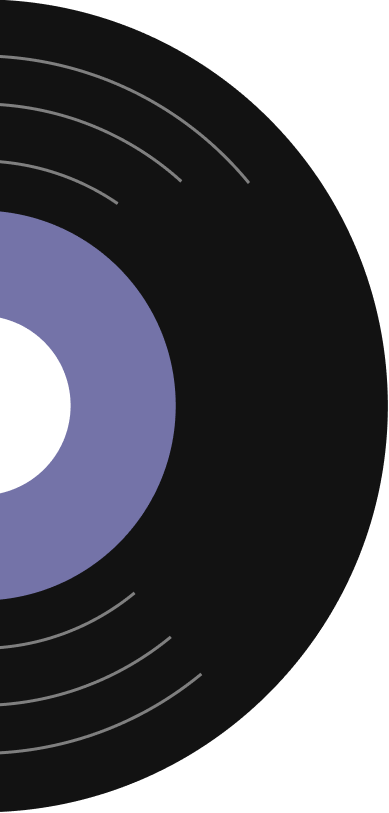
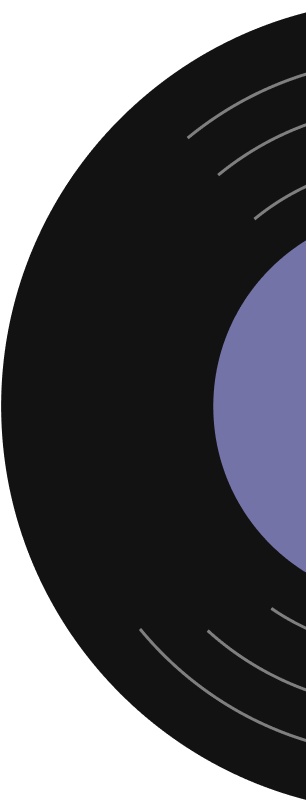
basic layout of learning journal set

diff --git a/journal/index.html b/journal/index.html
@@ -24,29 +24,31 @@
     </div>
    
     <div id="container">
-        <article>
-                <h2>Title</h2>
-                <date>January 28, 2023</date>
+            <article>
+                    <h2>Title</h2>
+                    <date>January 28, 2023</date>
 
-                <div id="content">
-                    <p>Lorem ipsum dolor sit amet consectetur adipisicing elit. Maiores distinctio accusamus magnam reiciendis mollitia odio libero debitis commodi, veniam recusandae harum voluptatem repellat animi enim earum, natus molestiae. Magni, quos!</p>
+                    <div id="content">
+                        <p>Lorem ipsum dolor sit amet consectetur adipisicing elit. Maiores distinctio accusamus magnam reiciendis mollitia odio libero debitis commodi, veniam recusandae harum voluptatem repellat animi enim earum, natus molestiae. Magni, quos!</p>
 
-                    <p>
-                        Lorem, ipsum dolor sit amet consectetur adipisicing elit. Cupiditate, qui accusantium itaque illum minus obcaecati, corporis voluptas fugit neque sequi laboriosam similique voluptates molestias. Officiis facilis neque sapiente ut. Ab?
-                    </p>
-                    <p>
-                        Lorem, ipsum dolor sit amet consectetur adipisicing elit. Cupiditate, qui accusantium itaque illum minus obcaecati, corporis voluptas fugit neque sequi laboriosam similique voluptates molestias. Officiis facilis neque sapiente ut. Ab?
-                    </p>
-                    <p>
-                        Lorem, ipsum dolor sit amet consectetur adipisicing elit. Cupiditate, qui accusantium itaque illum minus obcaecati, corporis voluptas fugit neque sequi laboriosam similique voluptates molestias. Officiis facilis neque sapiente ut. Ab?
-                    </p>
-                    <p>
-                        Lorem, ipsum dolor sit amet consectetur adipisicing elit. Cupiditate, qui accusantium itaque illum minus obcaecati, corporis voluptas fugit neque sequi laboriosam similique voluptates molestias. Officiis facilis neque sapiente ut. Ab?
-                    </p>
-                </div>
-                
-                <div id="vinyl"></div>
-        </article>
+                        <p>
+                            Lorem, ipsum dolor sit amet consectetur adipisicing elit. Cupiditate, qui accusantium itaque illum minus obcaecati, corporis voluptas fugit neque sequi laboriosam similique voluptates molestias. Officiis facilis neque sapiente ut. Ab?
+                        </p>
+                        <p>
+                            Lorem, ipsum dolor sit amet consectetur adipisicing elit. Cupiditate, qui accusantium itaque illum minus obcaecati, corporis voluptas fugit neque sequi laboriosam similique voluptates molestias. Officiis facilis neque sapiente ut. Ab?
+                        </p>
+                        <p>
+                            Lorem, ipsum dolor sit amet consectetur adipisicing elit. Cupiditate, qui accusantium itaque illum minus obcaecati, corporis voluptas fugit neque sequi laboriosam similique voluptates molestias. Officiis facilis neque sapiente ut. Ab?
+                        </p>
+                        <p>
+                            Lorem, ipsum dolor sit amet consectetur adipisicing elit. Cupiditate, qui accusantium itaque illum minus obcaecati, corporis voluptas fugit neque sequi laboriosam similique voluptates molestias. Officiis facilis neque sapiente ut. Ab?
+                        </p>
+                    </div>
+            </article>
+
+        <div id="vinyl">
+            <img src="../images/halfVinyl.png" width="180" height="150" alt="vinyl image">
+        </div>
         <!-- <img src="../images/halfVinyl.png" width="300" height="550" alt=""> -->
     </div>
 

diff --git a/journal/styles.css b/journal/styles.css
@@ -1,13 +1,13 @@
 #container {
     margin: 0 auto;
     display: flex;
+    flex-direction: row-reverse;
     justify-content: center;
     align-items: center;
 }
 
 body {
     line-height: 1.2em;
-
 }
 
 header {
@@ -21,26 +21,24 @@ header h1,h2 {
     font-size: 1em;
 }
 
+
 article {
-    background-color: #E5CA93;
-    /* padding: 30px;
-    width: 43%;
-    height: 43%;
-    margin: auto;
-    position: relative; */
+    background-color: #D4D3F8;
 
+    border-radius: 5px;
     padding: 30px;
-    height: 43%;
-    width: 43%;
-
+    width: 550px;
+    height: 550px;
 }
 
 article h2 {
     font-size: 1.5em;
+    margin: 10px 0px;
 }
 
 article date {
     font-size: 0.8em;
+    margin: 0;
 }
 
 article p {
@@ -55,26 +53,27 @@ article p {
 }
 
 #vinyl {
-    background-image: url(../images/halfVinyl.png);
-    position: absolute;
-    transform-origin: center;
-    top: 50%;
-    left: 40%;
-    z-index: -1;
 
-    width: 550px;
-    height: 550px;
+    /* background-image: url(../images/halfVinyl.png); */
+    /* background-repeat: no-repeat; */
+    /* position: absolute;
+    transform-origin: center;
+    top: 20%;
+    left: 73%; */
+
+    /* width: 550px;
+    height: 550px; */
+    z-index: -1;
 }
 
- img {
-    position: absolute;
-    transform-origin: center;
+img {
+    /* position: absolute; */
+    /* transform-origin: center; */
     
-    top: 10%;
-    left: 40%;
+    /* top: 10%;
+    left: 40%; */
 
-    /* height: 100%; */
-
+    height: 50%;
     z-index: -1;
 } 
 
